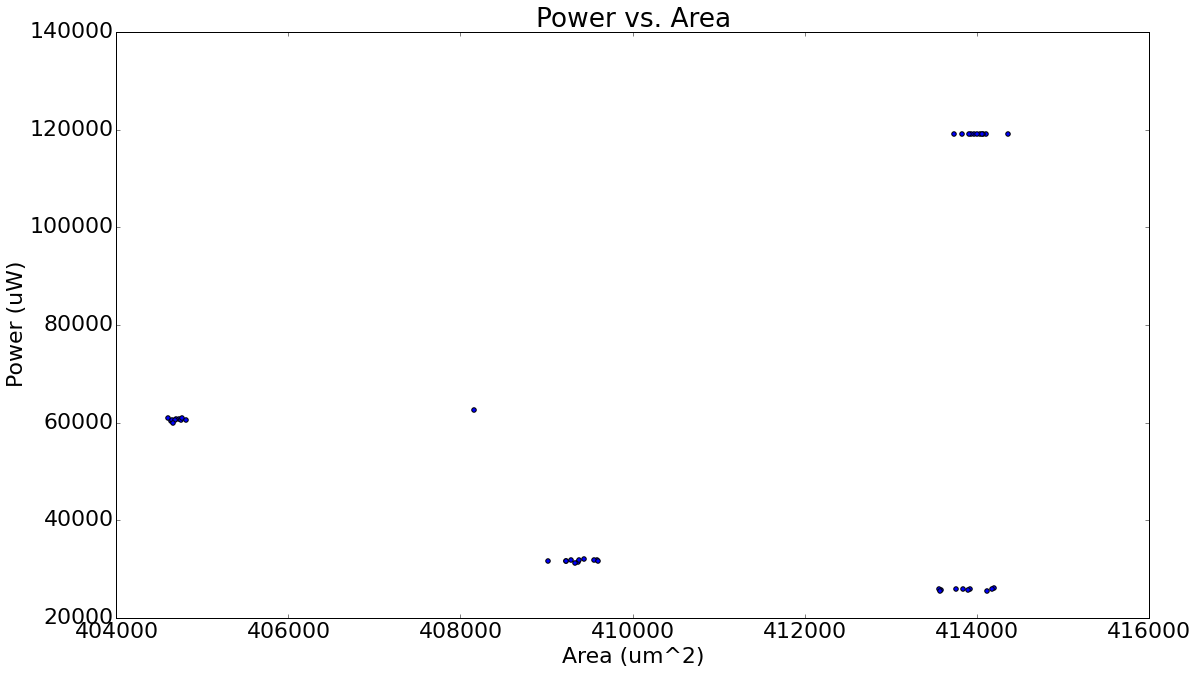
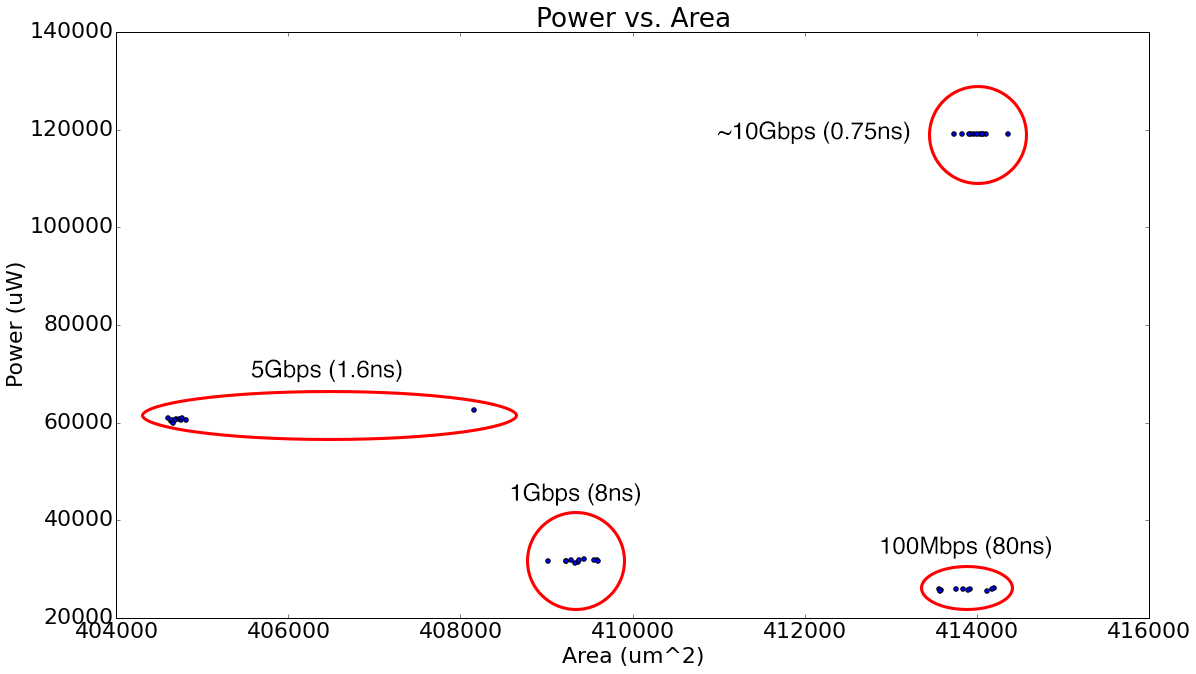
add circles to graphs

diff --git a/docs/presentation/presentation.tex b/docs/presentation/presentation.tex
@@ -1,8 +1,8 @@
 \documentclass{beamer}
-  
+    
 \usepackage{graphicx}
 \usepackage[binary-units=true]{siunitx}
-
+ 
 \title{Hardware Acceleration of Key-Value Stores}
 \author{Sagar Karandikar, Howard Mao, Albert Ou, Soumya Basu}
 \institute[UC Berkeley]{\textsc{University of California, Berkeley}}
@@ -47,11 +47,17 @@
 
 \begin{frame}{Overview of DSE Results}
     \begin{itemize}
+        \item All DSE done with accelerator only
         \item Most parameters didn't have a significant effect on power/performance/area
         \item Why?
             \begin{itemize}
                 \item Reasonable Cache Size / Number of Keys difficult to push through VLSI tools
                 \item Future Work: Design Space Exploration with FPGA
+                    \begin{itemize}
+                        \item Allows for faster testing (can run realistic traces)
+                        \item Faster build cycles
+                        \item Larger memory size
+                    \end{itemize}
             \end{itemize}
         \item What worked?
             \begin{itemize}
